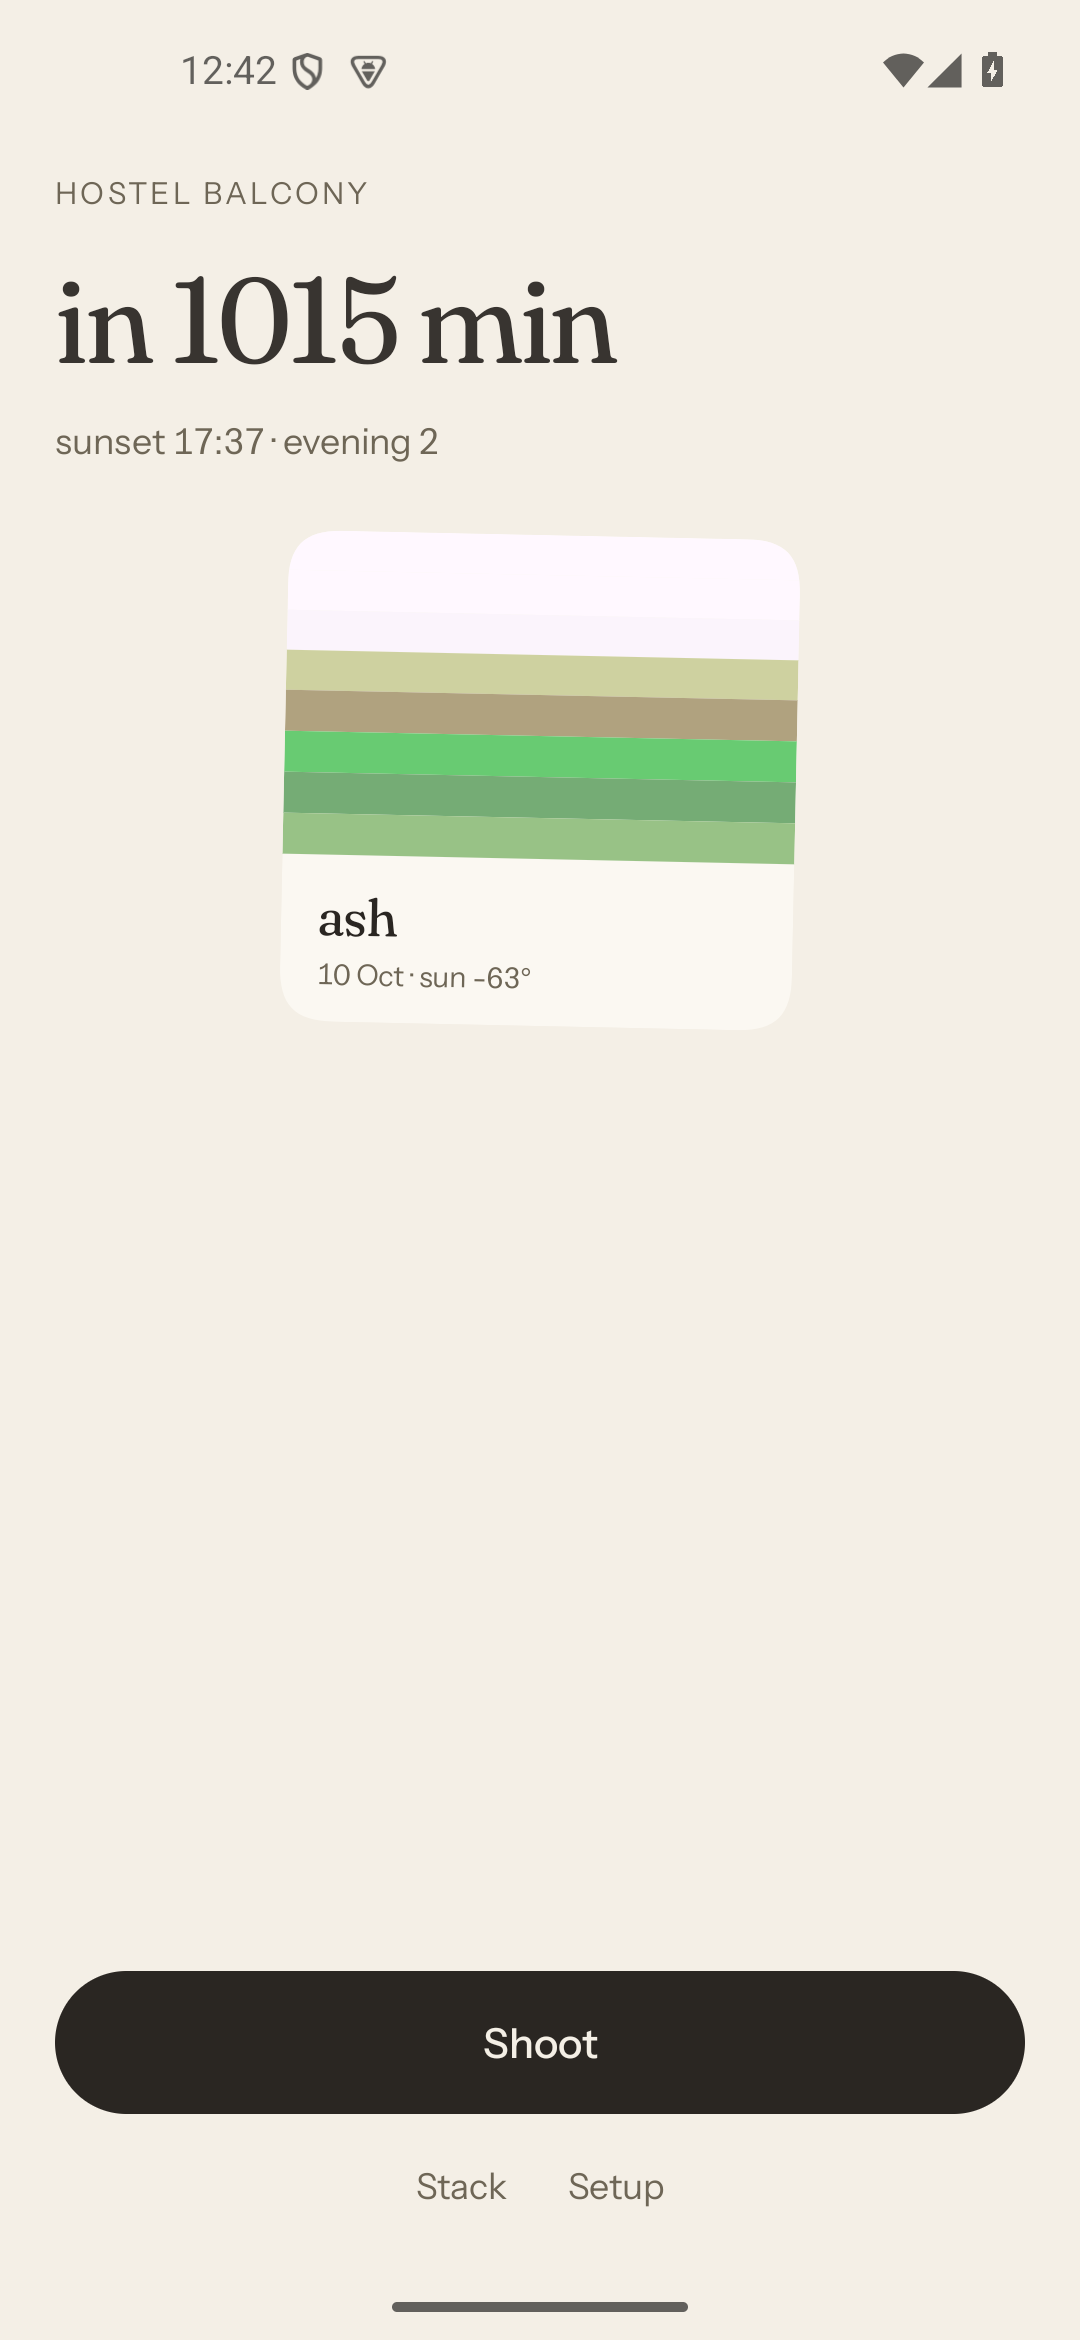
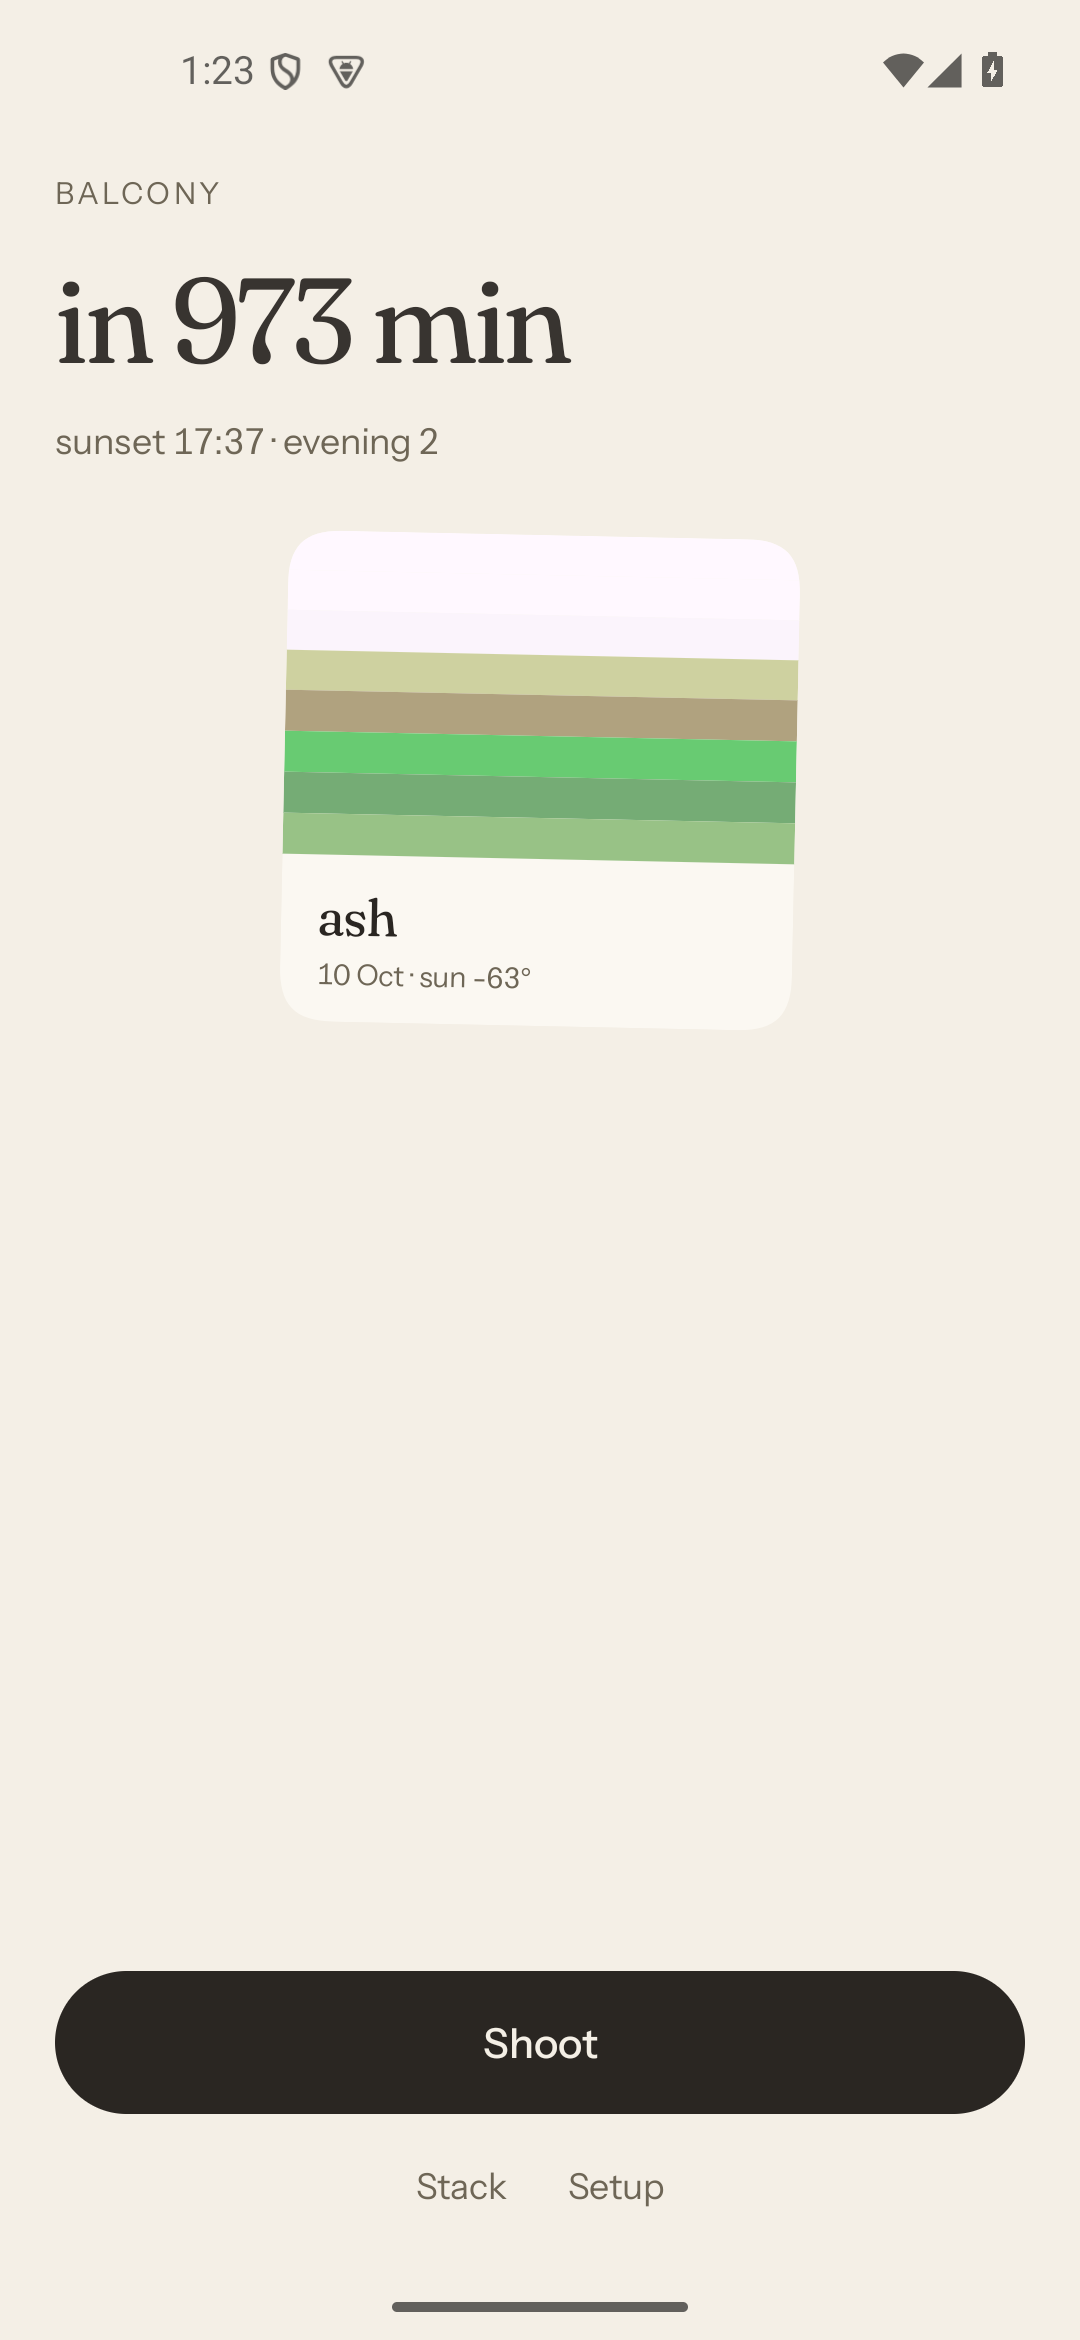
fix: take the author's coordinates and place name out of public artifacts
The Setup screen's hint carried a worked example that was a real pair, and
docs/images/screen-setup.png showed that pair plus the real place label in its
fields; screen-tonight.png showed the label in its eyebrow. The hint now shows
a London pair and both shots are re-taken from the emulator with the place
called balcony. The Tonight shot still shows the same sunset and the same two
cards, so the screen set stays consistent.

Not neutral yet, and left alone because changing them means recomputing pinned
sunset constants: StoreTest, SunWindowTest, the SunWindow KDoc, the mockup, and
the spec's own copy.

Changed region(s): [[0.0611, 0.0624, 0.5806, 0.156], [0.2444, 0.0, 0.3667, 0.0624]]

diff --git a/app/src/main/java/com/burry071/evenlight/ui/SetupScreen.kt b/app/src/main/java/com/burry071/evenlight/ui/SetupScreen.kt
@@ -117,7 +117,7 @@ fun SetupScreen(
         Spacer(Modifier.weight(1f))
         Box(Modifier.fillMaxWidth().padding(bottom = 8.dp)) {
             Text(
-                if (canSave) "saved to this device only" else "needs a place and a pair like 31.52, 74.35",
+                if (canSave) "saved to this device only" else "needs a place and a pair like 51.51, -0.13",
                 style = EvenlightType.caption,
                 color = EvenlightColors.Muted
             )
